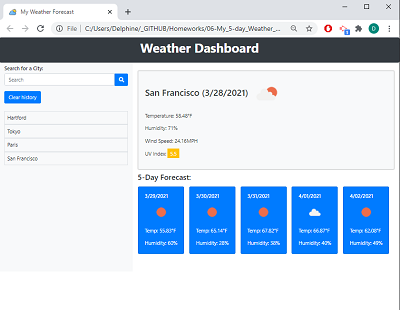
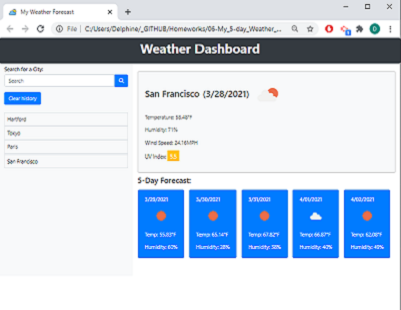
add media queries

diff --git a/index.html b/index.html
@@ -89,17 +89,17 @@
             <div class="container-fluid projects">
                 <div class="row">
                     <!-- Extra project for fun-->
-                    <div class="col-sm-12 col-md-6 col-lg-4 col-xl-4 mx-auto px-2">
-                        <div class="card project-card my-2 text-center shadow-lg accordion" id="accordionOne">
+                    <div class="col-sm-12 col-md-6 col-lg-6 col-xl-4 mx-auto px-2">
+                        <div class="card project-card my-2 shadow-lg accordion" id="accordionOne">
                             <a href="https://delph-sunny.github.io/Tic-Tac-Toe_v2.0/" target="_blank"><img
                                     class="card-img-top" src="./assets/images/TicTacToe.png" alt="Tic-tac-toe" /></a>
                             <div class="card-body">
-                                <h3 class="card-text">
+                                <h4 class="card-text">
                                     <a href="#" data-toggle="collapse" data-target="#collapseOne" aria-expanded="false"
                                         aria-controls="collapseOne"
                                         class="d-block position-relative text-dark collapsible-link py-2">
                                         Tic-Tac-Toe </a>
-                                </h3>
+                                </h4>
                                 <div id="collapseOne" aria-labelledby="headingOne" data-parent="#accordionOne"
                                     class="collapse">
                                     <p class="card-text">
@@ -107,26 +107,28 @@
                                     </p>
                                 </div>
                                 <br>
-                                <button type="button" class="btn btn-outline-dark github">
-                                    <a href="https://github.com/Delph-Sunny/Tic-Tac-Toe_v2.0" target="_blank">Github
-                                        repo</a>
-                                </button>
+                                <div class="col-12 text-center">
+                                    <button type="button" class="btn btn-outline-dark github">
+                                        <a href="https://github.com/Delph-Sunny/Tic-Tac-Toe_v2.0" target="_blank">Github
+                                            repo</a>
+                                    </button>
+                                </div>
                             </div>
                         </div>
                     </div>
                     <!-- Project1 -->
-                    <div class="col-sm-12 col-md-6 col-lg-4 col-xl-4 mx-auto px-2">
-                        <div class="card project-card my-2 text-center shadow-lg accordion" id="accordionTwo">
+                    <div class="col-sm-12 col-md-6 col-lg-6 col-xl-4 mx-auto px-2">
+                        <div class="card project-card my-2 shadow-lg accordion" id="accordionTwo">
                             <a href="https://delph-sunny.github.io/Playlist-Creator/" target="_blank"><img
                                     class="card-img-top" src="./assets/images/splash_screenshot.png"
                                     alt="My Cool Playlist" /></a>
                             <div class="card-body">
-                                <h3 class="card-text">
+                                <h4 class="card-text">
                                     <a href="#" data-toggle="collapse" data-target="#collapseTwo" aria-expanded="false"
                                         aria-controls="collapseTwo"
                                         class="d-block position-relative text-dark collapsible-link py-2">
                                         My Cool Playlist</a>
-                                </h3>
+                                </h4>
                                 <div id="collapseTwo" aria-labelledby="headingTwo" data-parent="#accordionTwo"
                                     class="collapse">
                                     <p class="card-text">
@@ -137,26 +139,28 @@
                                     </p>
                                 </div>
                                 <br>
-                                <button type="button" class="btn btn-outline-dark github">
-                                    <a href="https://github.com/Delph-Sunny/Playlist-Creator" target="_blank">Github
-                                        repo</a>
-                                </button>
+                                <div class="col-12 text-center">
+                                    <button type="button" class="btn btn-outline-dark github">
+                                        <a href="https://github.com/Delph-Sunny/Playlist-Creator" target="_blank">Github
+                                            repo</a>
+                                    </button>
+                                </div>
                             </div>
                         </div>
                     </div>
                     <!-- Homework 6 -->
-                    <div class="col-sm-12 col-md-6 col-lg-4 col-xl-4 mx-auto px-2">
-                        <div class="card project-card my-2 text-center shadow-lg accordion" id="accordionThree">
+                    <div class="col-sm-12 col-md-6 col-lg-6 col-xl-4 mx-auto px-2">
+                        <div class="card project-card my-2 shadow-lg accordion" id="accordionThree">
                             <a href="https://delph-sunny.github.io/06-My_5-day_Weather_Forecast/" target="_blank"><img
                                     class="card-img-top" src="./assets/images/My5DayWeatherForecast.png"
                                     alt="Weather forcast" /></a>
                             <div class="card-body">
-                                <h3 class="card-text">
+                                <h4 class="card-text">
                                     <a href="#" data-toggle="collapse" data-target="#collapseThree"
                                         aria-expanded="false" aria-controls="collapseThree"
                                         class="d-block position-relative text-dark collapsible-link py-2">
                                         My 5-day Weather Forecast&nbsp;</a>
-                                </h3>
+                                </h4>
                                 <div id="collapseThree" aria-labelledby="headingThree" data-parent="#accordionThree"
                                     class="collapse">
                                     <p class="card-text">
@@ -166,26 +170,28 @@
                                     </p>
                                 </div>
                                 <br>
-                                <button type="button" class="btn btn-outline-dark github">
-                                    <a href="https://github.com/Delph-Sunny/06-My_5-day_Weather_Forecast"
-                                        target="_blank">Github repo</a>
-                                </button>
+                                <div class="col-12 text-center">
+                                    <button type="button" class="btn btn-outline-dark github">
+                                        <a href="https://github.com/Delph-Sunny/06-My_5-day_Weather_Forecast"
+                                            target="_blank">Github repo</a>
+                                    </button>
+                                </div>
                             </div>
                         </div>
                     </div>
                     <!-- Homework 5 -->
-                    <div class="col-sm-12 col-md-6 col-lg-4 col-xl-4 mx-auto px-2">
-                        <div class="card project-card mt-2 text-center shadow-lg accordion" id="accordionFour">
+                    <div class="col-sm-12 col-md-6 col-lg-6 col-xl-4 mx-auto px-2">
+                        <div class="card project-card mt-2 shadow-lg accordion" id="accordionFour">
                             <a href="https://delph-sunny.github.io/05-Daily_Planner_with_JQuery/" target="_blank"><img
                                     class="card-img-top" src="./assets/images/WorkDayScheduler.png"
                                     alt="Work Day Scheduler" /></a>
                             <div class="card-body">
-                                <h3 class="card-text">
+                                <h4 class="card-text">
                                     <a href="#" data-toggle="collapse" data-target="#collapseFour" aria-expanded="false"
                                         aria-controls="collapseFour"
                                         class="d-block position-relative text-dark collapsible-link py-2">
                                         Work Day Scheduler</a>
-                                </h3>
+                                </h4>
                                 <div id="collapseFour" aria-labelledby="headingFour" data-parent="#accordionFour"
                                     class="collapse">
                                     <p class="card-text">
@@ -194,26 +200,28 @@
                                     </p>
                                 </div>
                                 <br>
-                                <button type="button" class="btn btn-outline-dark github">
-                                    <a href="https://github.com/Delph-Sunny/05-Daily_Planner_with_JQuery"
-                                        target="_blank">Github repo</a>
-                                </button>
+                                <div class="col-12 text-center">
+                                    <button type="button" class="btn btn-outline-dark github">
+                                        <a href="https://github.com/Delph-Sunny/05-Daily_Planner_with_JQuery"
+                                            target="_blank">Github repo</a>
+                                    </button>
+                                </div>
                             </div>
                         </div>
                     </div>
                     <!-- Homework 4 -->
-                    <div class="col-sm-12 col-md-6 col-lg-4 col-xl-4 mx-auto px-2">
-                        <div class="card project-card my-2 text-center shadow-lg accordion" id="accordionFive">
+                    <div class="col-sm-12 col-md-6 col-lg-6 col-xl-4 mx-auto px-2">
+                        <div class="card project-card my-2 shadow-lg accordion" id="accordionFive">
                             <a href="https://delph-sunny.github.io/04-Code_Quiz/" target="_blank"><img
                                     class="card-img-top" src="./assets/images/Quiz.png"
                                     alt="Coding Quiz Challenge" /></a>
                             <div class="card-body">
-                                <h3 class="card-text">
+                                <h4 class="card-text">
                                     <a href="#" data-toggle="collapse" data-target="#collapseFive" aria-expanded="false"
                                         aria-controls="collapseFive"
                                         class="d-block position-relative text-dark collapsible-link py-2">
                                         Coding Quiz Challenge</a>
-                                </h3>
+                                </h4>
                                 <div id="collapseFive" aria-labelledby="headingFive" data-parent="#accordionFive"
                                     class="collapse">
                                     <p class="card-text">
@@ -221,26 +229,28 @@
                                     </p>
                                 </div>
                                 <br>
-                                <button type="button" class="btn btn-outline-dark github">
-                                    <a href="https://github.com/Delph-Sunny/04-Code_Quiz" target="_blank">Github
-                                        repo</a>
-                                </button>
+                                <div class="col-12 text-center">
+                                    <button type="button" class="btn btn-outline-dark github">
+                                        <a href="https://github.com/Delph-Sunny/04-Code_Quiz" target="_blank">Github
+                                            repo</a>
+                                    </button>
+                                </div>
                             </div>
                         </div>
                     </div>
                     <!-- Homework 3 -->
-                    <div class="col-sm-12 col-md-6 col-lg-4 col-xl-4 mx-auto px-2">
-                        <div class="card project-card my-2 text-center shadow-lg accordion" id="accordionSix">
+                    <div class="col-sm-12 col-md-6 col-lg-6 col-xl-4 mx-auto px-2">
+                        <div class="card project-card my-2 shadow-lg accordion" id="accordionSix">
                             <a href="https://delph-sunny.github.io/03-PasswordWithJavaScript/" target="_blank"><img
                                     class="card-img-top" src="./assets/images/Passport.png"
                                     alt="Password Generator" /></a>
                             <div class="card-body">
-                                <h3 class="card-text">
+                                <h4 class="card-text">
                                     <a href="#" data-toggle="collapse" data-target="#collapseSix" aria-expanded="false"
                                         aria-controls="collapseSix"
                                         class="d-block position-relative text-dark collapsible-link py-2">
                                         Password Generator</a>
-                                </h3>
+                                </h4>
                                 <div id="collapseSix" aria-labelledby="headingSix" data-parent="#accordionSix"
                                     class="collapse">
                                     <p class="card-text">
@@ -248,10 +258,12 @@
                                     </p>
                                 </div>
                                 <br>
-                                <button type="button" class="btn btn-outline-dark github">
-                                    <a href="https://github.com/Delph-Sunny/03-PasswordWithJavaScript"
-                                        target="_blank">Github repo</a>
-                                </button>
+                                <div class="col-12 text-center">
+                                    <button type="button" class="btn btn-outline-dark github">
+                                        <a href="https://github.com/Delph-Sunny/03-PasswordWithJavaScript"
+                                            target="_blank">Github repo</a>
+                                    </button>
+                                </div>
                             </div>
                         </div>
                     </div>

diff --git a/assets/css/style.css b/assets/css/style.css
@@ -118,7 +118,6 @@ h1 {
 .all-btn{
     color: #4395ab !important;
 }
- 
 
 .collapsible-link{
     text-decoration: none !important;
@@ -132,8 +131,7 @@ h1 {
     background: #333;
     position: absolute;
     top: calc(50% - 1px);
-    right: 1rem;
-   
+    right: 1rem;   
     transition: all 0.3s;    
   }
   
@@ -163,9 +161,6 @@ h1 {
     font-weight: bold;
 }
 
-.portfolio-section {
-
-}
 
 /************************
 *   Contact Me Section   *
@@ -213,7 +208,7 @@ h1 {
         font-size: 1.8rem;        
     }
 
-    h3 {
+    h4 {
         font-size: 1.5rem;
     }
 
@@ -240,7 +235,7 @@ h1 {
         font-size: 1.5rem;        
     }
 
-    h3 {
+    h4 {
         font-size: 1.25rem;
     }
 
@@ -259,6 +254,11 @@ h1 {
         margin-top: 0rem !important;       
     }
     
+    h4 {
+        font-size: 0.9rem;
+        margin-top: 0rem !important;       
+    }
+
     h5 {
         font-size: 0.75rem;
         margin-top: 0rem !important;       
@@ -279,5 +279,10 @@ h1 {
     #profile {
         max-height: 150px; 
         margin-top: 0;       
-    }    
+    } 
+
+    .github a{
+        font-size: 0.75rem; 
+    }
+       
 }
